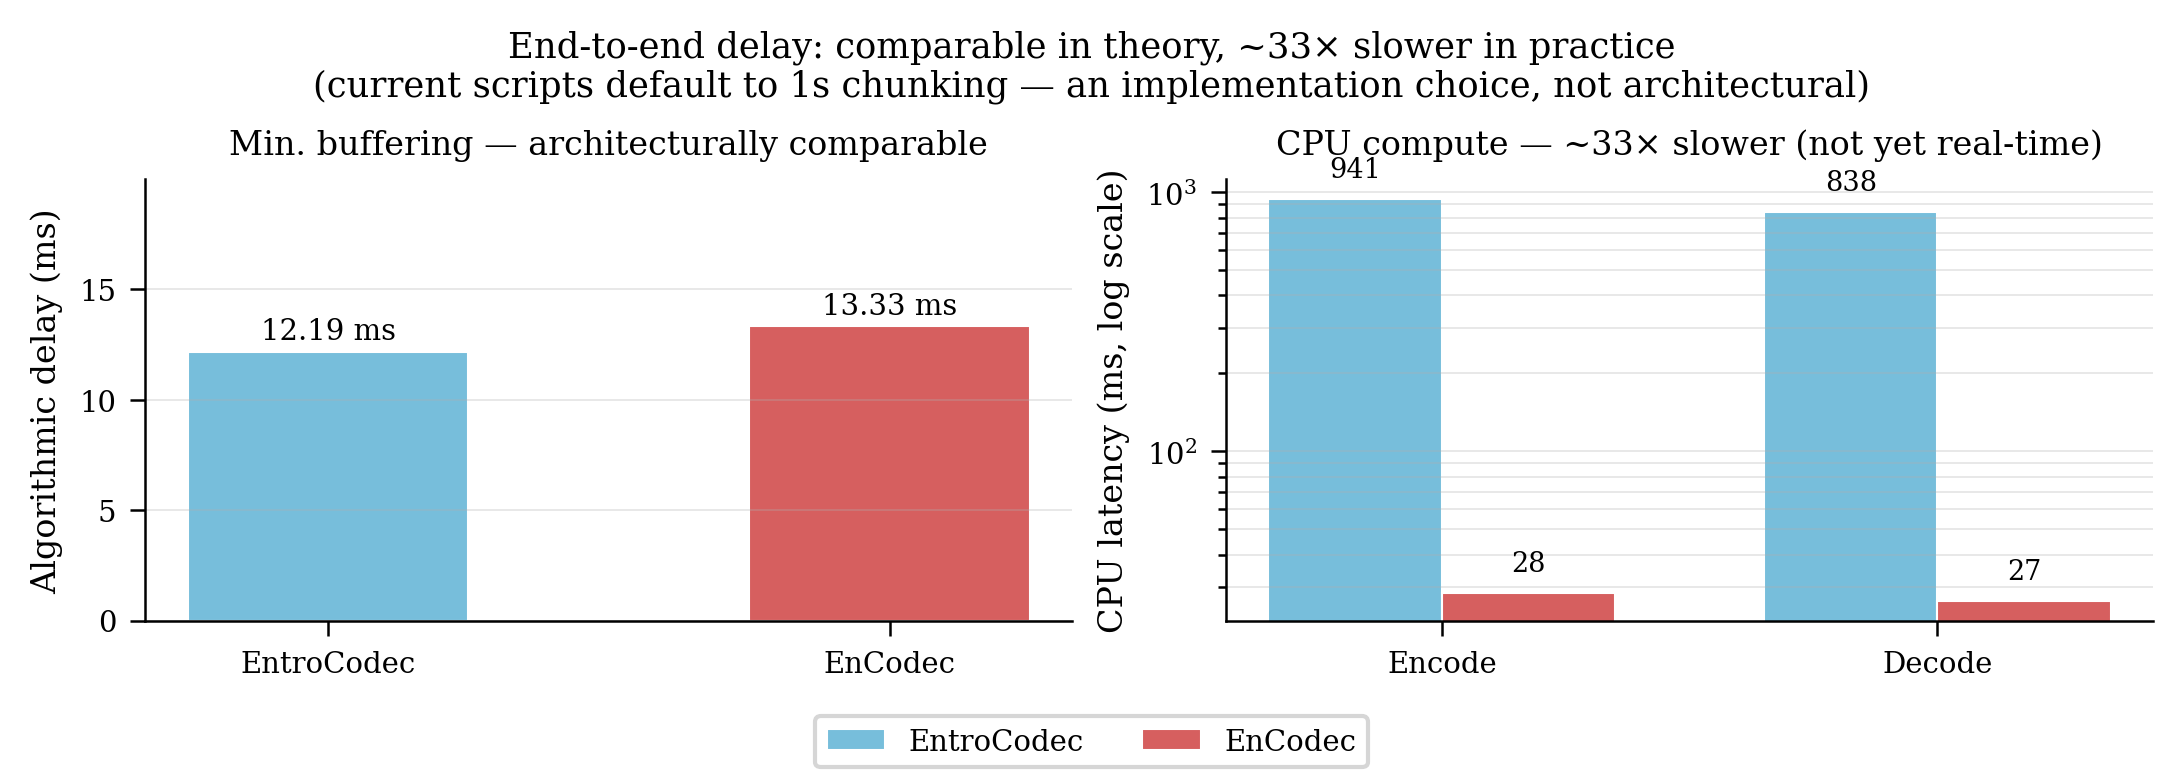
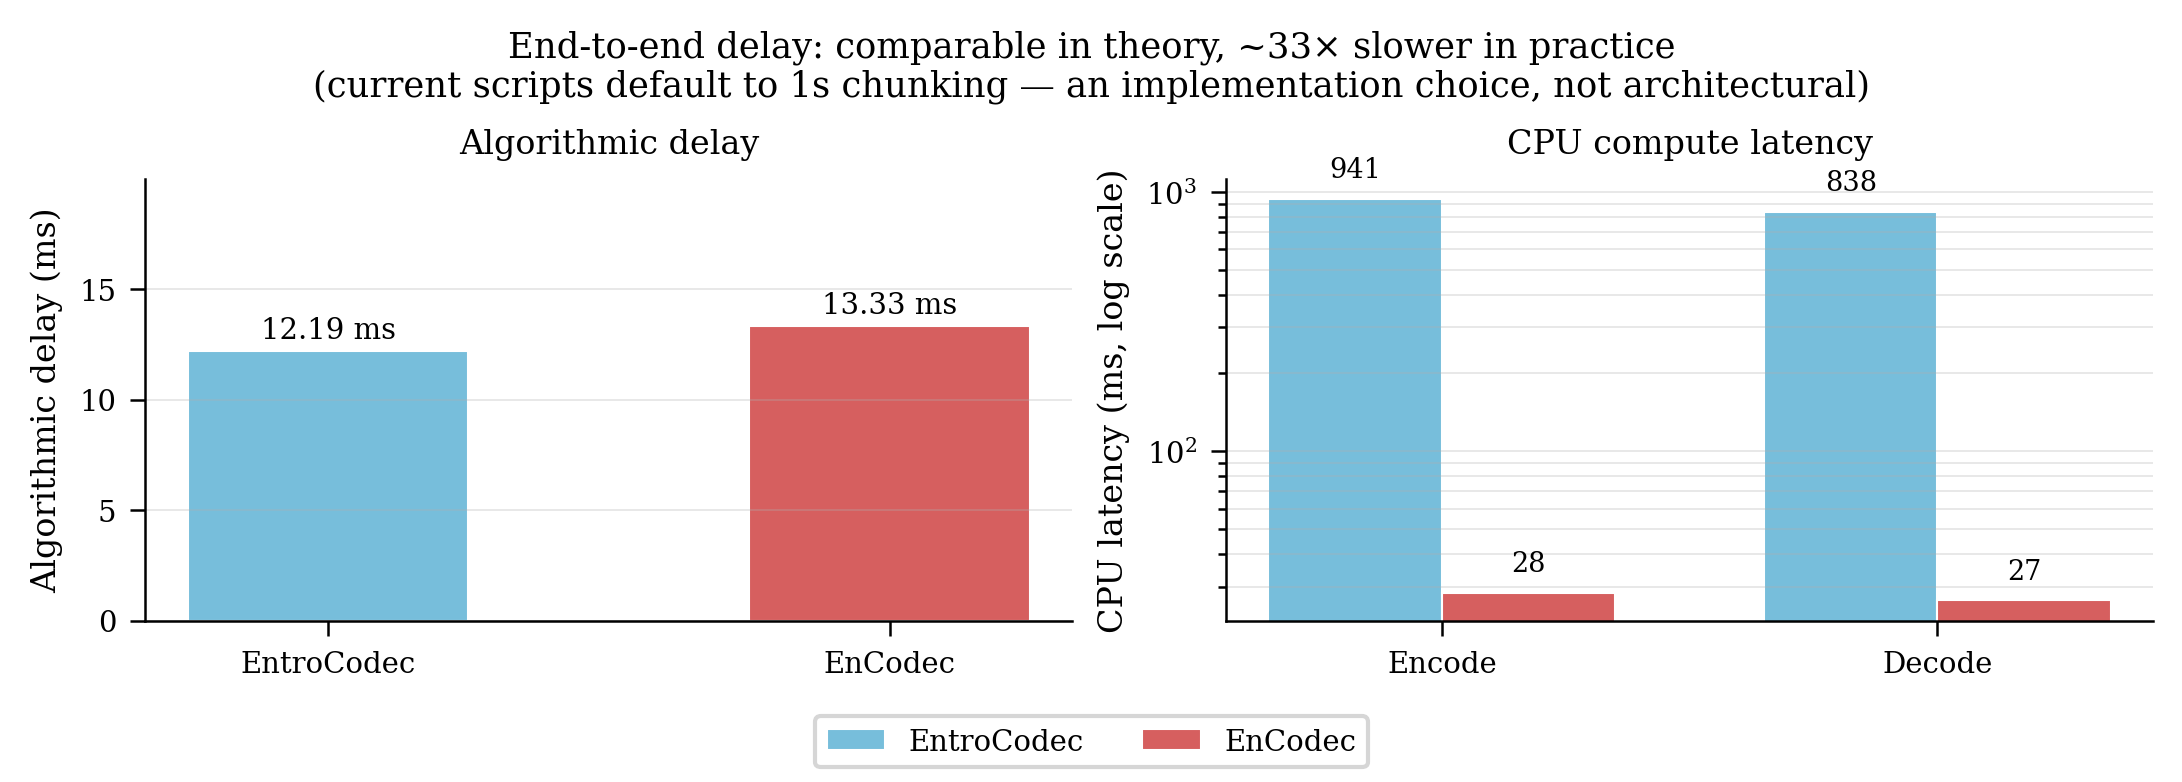
fix: update titles for latency figures to improve clarity

diff --git a/scripts/figures/plots.py b/scripts/figures/plots.py
@@ -758,7 +758,7 @@ def fig_22_latency(data: dict) -> plt.Figure:
                   ha='center', va='bottom', fontsize=7)
     ax1.set_ylabel('Algorithmic delay (ms)')
     ax1.set_ylim(0, max(delay_vals) * 1.5)
-    ax1.set_title('Min. buffering — architecturally comparable', fontsize=8)
+    ax1.set_title('Algorithmic delay', fontsize=8)
     ax1.grid(True, axis='y')
 
     # Right: measured CPU compute latency — the real, unresolved gap
@@ -779,7 +779,7 @@ def fig_22_latency(data: dict) -> plt.Figure:
     ax2.set_xticklabels(metrics)
     ax2.set_ylabel('CPU latency (ms, log scale)')
     ratio_encode = ours['encode_ms'] / enc['encode_ms']
-    ax2.set_title(f'CPU compute — ~{ratio_encode:.0f}× slower (not yet real-time)', fontsize=8)
+    ax2.set_title('CPU compute latency', fontsize=8)
     ax2.grid(True, axis='y', which='both')
 
     style.legend(fig, ax=ax2)
